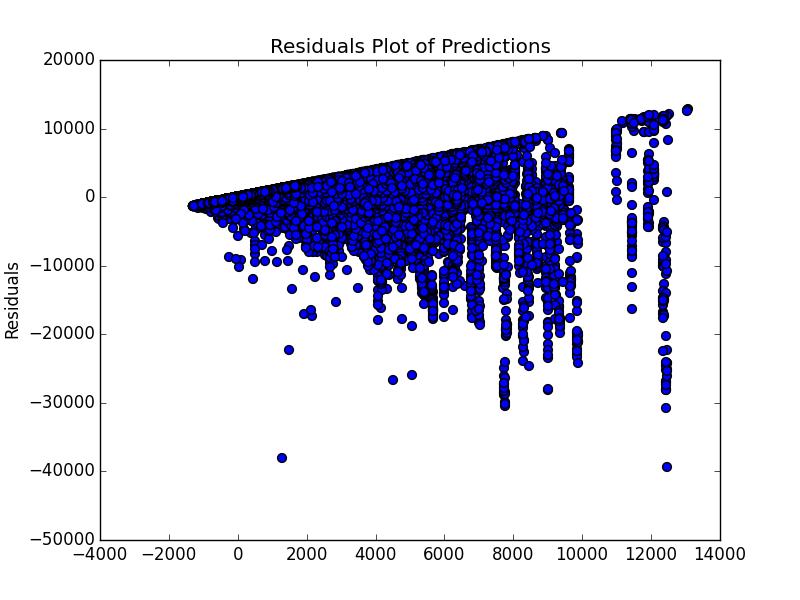
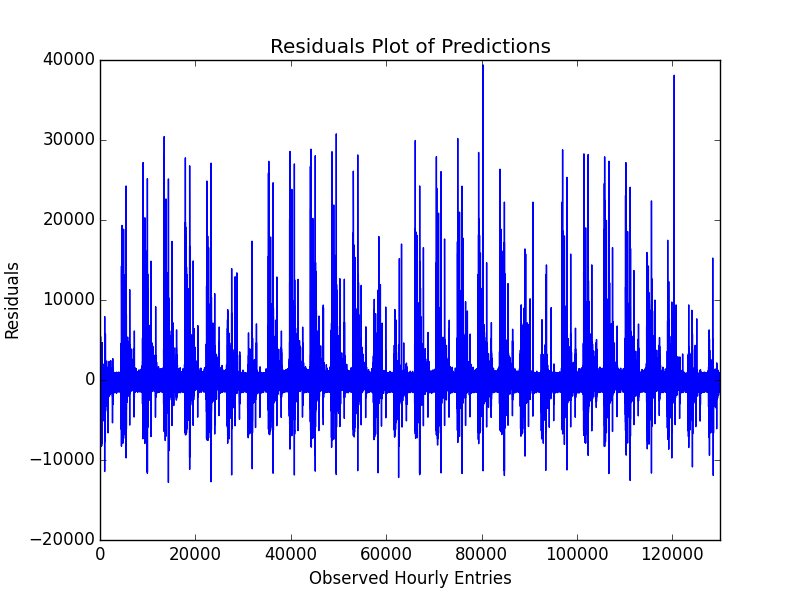
add corrected residuals plot

diff --git a/lin_model.py b/lin_model.py
@@ -3,6 +3,7 @@ import pandas
 import statsmodels.api as sm
 from sklearn import linear_model
 import matplotlib.pyplot as plt
+
 """
 In this question, you need to:
 1) implement the linear_regression() procedure
@@ -87,13 +88,15 @@ turnstile_weather = pandas.read_csv(turnstile_weather)
 
 predictions, values = predictions(turnstile_weather)
 
-plt.scatter(predictions - np.mean(values), values, s=40)
+# plt.scatter(predictions - np.mean(values), values, s=40)
 
-plt.title("Residuals Plot of Predictions")
-# plt.hlines(y = 0, xmin=0, xmax=0)
+plt.plot(values - predictions)
 plt.ylabel('Residuals')
 plt.xlabel('Observed Hourly Entries')
+plt.title("Residuals Plot of Predictions")
+plt.xlim(0,130000)
 plt.show()
+
 print sum(predictions - values)
 
 # plt.hist(predictions - values, bins=250)
